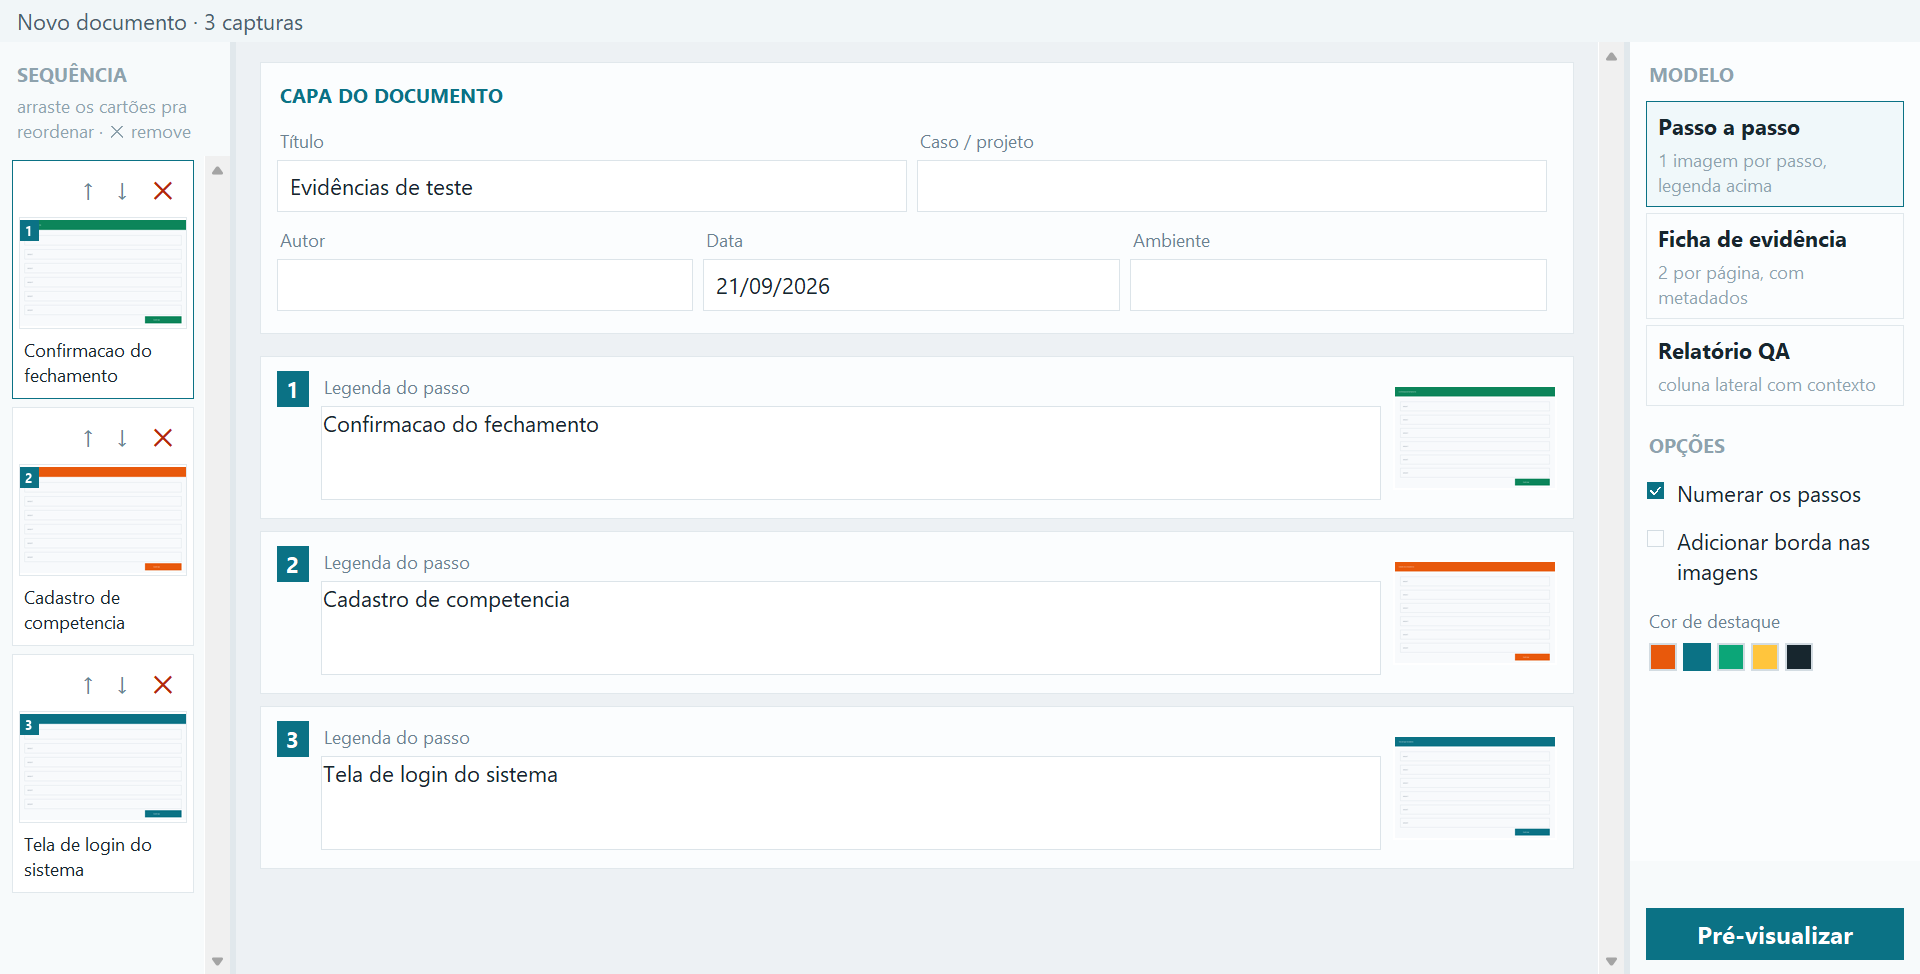
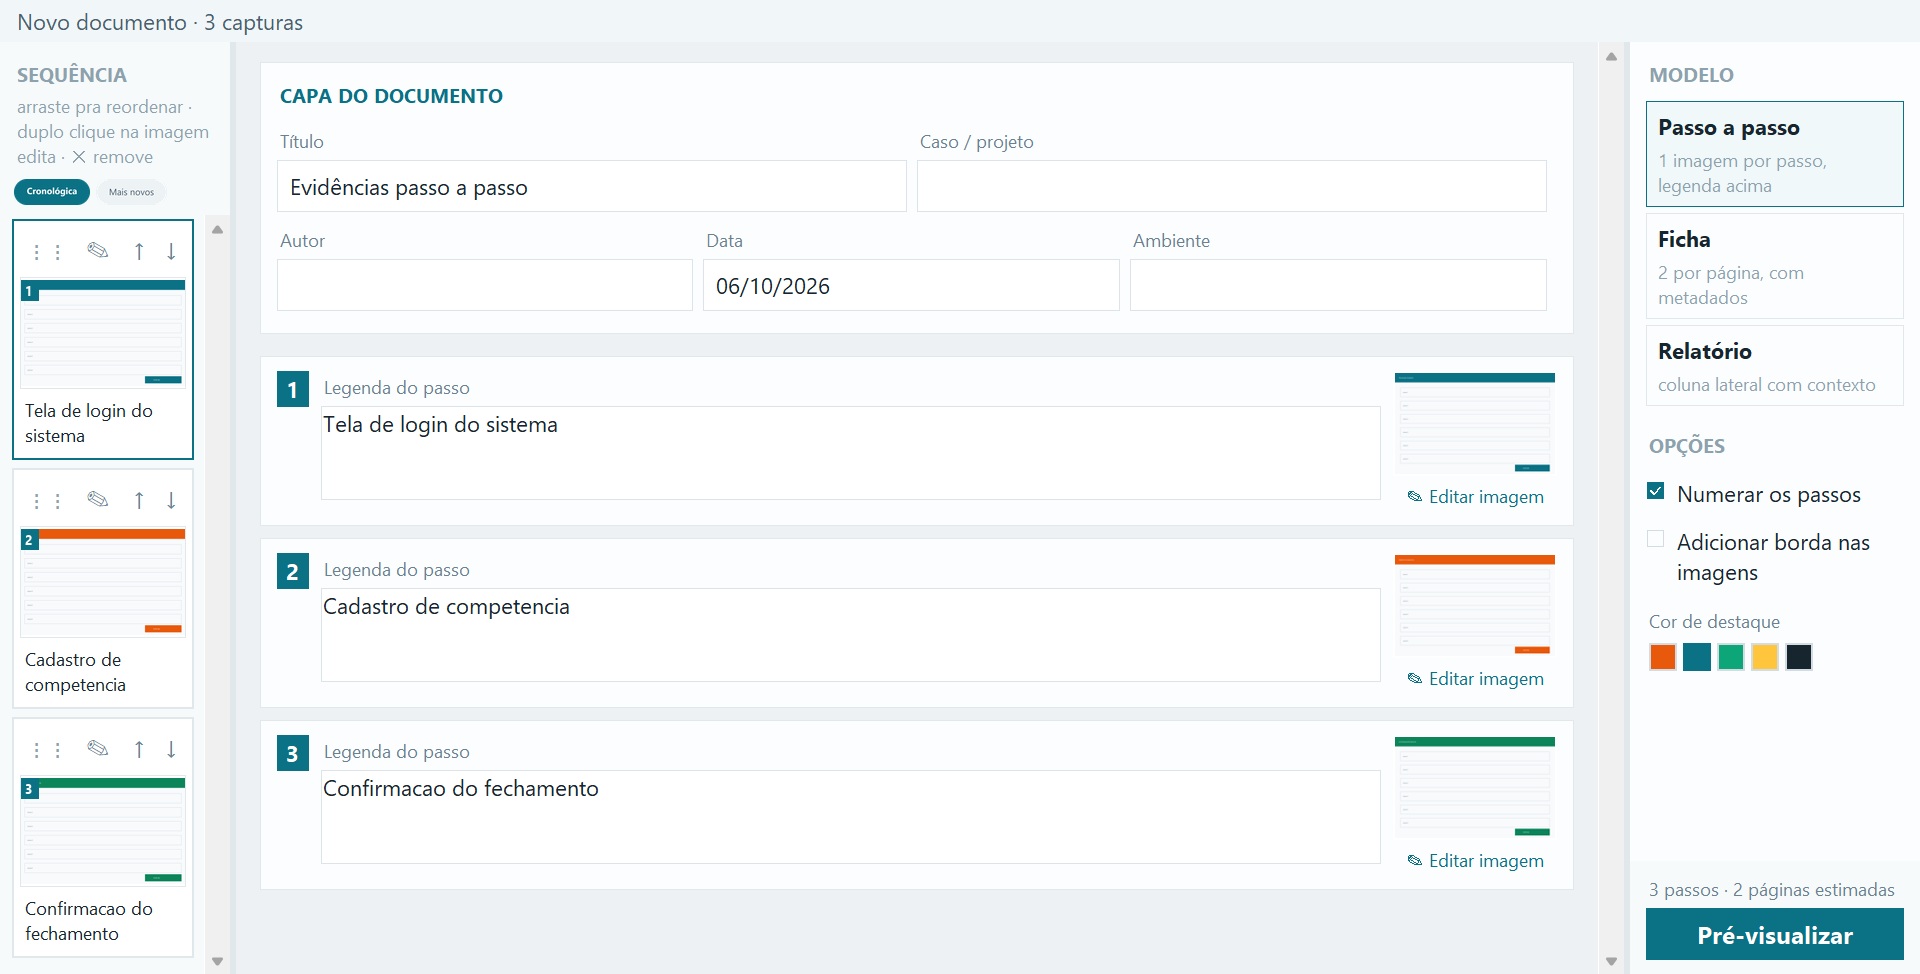
docs: README e tests/README acompanham o que o projeto ja e
- README: remove "ainda nao esta sob Git" e "reorganizacao em pacotes" da lista
  do que nao existe (os dois ja foram feitos), atualiza o roadmap, a secao de
  contribuicao (GitHub, pyflakes em todas as pastas, conferencia com mouse real)
  e a imagem da tela de montar documento, que era de antes da alca, do botao de
  editar, do seletor de ordem e dos nomes novos dos modelos
- tests/README: 39 casos (dizia 29), tres regras novas (evento sintetico precisa
  de horario, conferir a ordem exibida, validar o teste fazendo-o falhar), a
  tabela de defeitos pegos e a nota sobre o mouse de verdade

diff --git a/tests/README.md b/tests/README.md
@@ -41,11 +41,11 @@ As suítes:
   de área e atalho com o painel escondido.
 - **sistema** — Lixeira, menu Iniciar, pasta de dados em `%APPDATA%`.
 
-São 29 casos ao todo.
+São 39 casos ao todo.
 
 ## Ao escrever um cenário novo
 
-Quatro regras que saíram de defeitos reais desta suíte, e não de preferência:
+Sete regras que saíram de defeitos reais desta suíte, e não de preferência:
 
 1. **Crie a própria pasta temporária de capturas.** Três cenários abriam o app
    sobre a pasta real da máquina; o do editor chegava a gravar legenda nas
@@ -64,6 +64,22 @@ Quatro regras que saíram de defeitos reais desta suíte, e não de preferência
    que a palavra-chave `Executar cenário de tela` lê — e ela também relata o
    código de saída do processo, que foi o que permitiu descobrir que os
    "resultados vazios" eram, na verdade, o processo morrendo.
+5. **Evento de mouse sintético precisa de horário.** `event_generate` sem
+   `time=` não carrega horário, e o Tk decide "duplo clique" comparando
+   horários: todo clique no mesmo ponto passava a contar como duplo, por mais que
+   o teste esperasse entre eles — um arraste logo depois de um clique abria o
+   editor. Os cenários de gesto usam um relógio virtual que avança entre os
+   gestos, e passam coordenadas de tela absolutas (`rootx`/`rooty`), porque o
+   widget que recebeu o clique pode sair do layout durante o arraste.
+6. **Confira a ordem exibida, não a de criação.** Os cartões trocam de lugar sem
+   ser recriados, então `winfo_children()` (ordem de criação) deixou de dizer o
+   que está na tela; use `pack_slaves()` ou a lista de cartões do próprio Montar.
+7. **Um teste que só passa não prova nada: faça-o falhar.** Desfaça a correção
+   que o teste diz cobrir (numa cópia do repositório) e confira que ele falha.
+   Foi assim que apareceram testes que concordavam com qualquer valor errado —
+   por exemplo, um que calculava o alvo do ponteiro com os mesmos números que o
+   código tinha calculado — e um que passava mesmo sem o campo `captured_at`
+   gravado, porque o nome e o mtime davam quase a mesma hora.
 
 ## Por que os cenários de tela rodam em processos separados
 
@@ -100,6 +116,12 @@ lista.
 | `test_legenda_ficha` | legenda sem espaços (URL, caminho) saía para fora do cartão |
 | `cenario_area_capturada` | recorte deslocado no monitor em 150% |
 | `cenario_area_trabalho` | a busca não alcançava o campo Caso/Projeto |
+| `cenario_editar_do_documento` | voltar do editor trazia o painel principal por cima; a legenda digitada no Montar se perdia ao gravar |
+| `cenario_duplo_clique_documento` | uma tremida entre os cliques virava arraste; imagem corrompida deixava uma janela vazia na tela |
+| `cenario_arraste_sequencia` / `test_reordenar` | arraste sem mostrar o destino, sem rolagem automática e com o item saindo fora do ponto indicado; soltar travava a tela por segundos |
+| `test_gravacao_atomica` | falha no meio da gravação deixava `.tmp` e o editor fechava como se tivesse gravado |
+| `cenario_timer_e_previas` | o painel se escondia com o Montar aberto; a pausa do timer não tinha efeito; duas prévias disputavam o mesmo arquivo |
+| `test_ordem_capturas` / `cenario_ordem_documento` | o último print virava o passo 1; ordenar por modificação jogaria para o fim o print editado; o texto "ordem manual" aparecia cortado |
 
 ## O que ainda depende de teste manual
 
@@ -108,3 +130,11 @@ falso negativo: o Windows só entrega `WM_HOTKEY` para entrada real de teclado,
 e isso já levou a diagnóstico errado. O cenário
 `cenario_printscreen_oculto` cobre o resto do caminho — o registro do atalho e o
 seletor aparecendo com o painel escondido, que é onde o defeito estava.
+
+Também vale uma passada com o **mouse de verdade** depois de mexer em gesto
+(arrastar, duplo clique): o evento sintético do Tk não reproduz a cadeia de
+foco e de cruzamento de janelas que o Windows gera. O duplo clique na miniatura
+passava em todos os cenários e falhava uma vez em cada duas com o mouse real,
+porque o primeiro clique movia o foco. Dá para conferir com `SetCursorPos` e
+`mouse_event` (user32), que injetam entrada real — mas o cursor da máquina se
+mexe sozinho enquanto roda, então não entra na suíte automática.

diff --git a/README.md b/README.md
@@ -64,8 +64,6 @@ de nada para fora da máquina.
 
 Integração com Jira ou Azure DevOps **está fora do escopo**: o documento
 gerado é anexado manualmente onde for preciso, e o projeto fica no GitHub.
-- [ ] Reorganização do código em pacotes por camada (ver [Roadmap](#-roadmap))
-- [ ] Versionamento em Git — **o projeto ainda não está sob controle de versão**
 
 ---
 
@@ -393,12 +391,17 @@ querer: CPF, nome, valor, e-mail, token na URL.
 - [x] Editar a imagem direto do Montar documento, sem perder o que já foi preenchido
 - [x] Tela de Configurações extraída do `workspace.py` para módulo próprio
 - [x] Projeto sob Git
+- [x] Módulos agrupados em pacotes por camada (`ui`, `captura`, `exportacao`, `dados`, `sistema`)
 - [x] Licença definida
 - [x] Busca alcançando também o campo Caso/Projeto
+- [x] Nomes e título padrão da capa por modelo (Passo a passo, Ficha, Relatório)
+- [x] Documento em ordem cronológica, com seletor de ordem e `captured_at`
+- [x] Arrastar a sequência com vão, rolagem automática e desfazer
 
 ### Próximo
 
-- [ ] Agrupar os módulos em pastas por camada
+- [ ] Duplo clique na página da pré-visualização para editar a imagem (hoje o
+      duplo clique vale na tela de montar o documento)
 
 ### Mais adiante
 
@@ -409,8 +412,8 @@ querer: CPF, nome, valor, e-mail, token na URL.
 
 ## 🤝 Contribuindo
 
-O projeto ainda não está sob controle de versão — este é o primeiro item do
-roadmap. Assim que estiver, a intenção é:
+O código fica no GitHub (`dassayani/gestordeevidencias`). Cada mudança nasce
+numa branch própria:
 
 ```bat
 git checkout -b feature/nome-curto
@@ -421,13 +424,18 @@ Prefixos: `feature/`, `fix/`, `refactor/`, `test/`, `docs/`.
 Antes de qualquer entrega, duas coisas:
 
 ```bat
-venv\Scripts\python.exe -m pyflakes *.py    :: precisa sair limpo
-tests\executar.bat                           :: precisa fechar 39/39
+venv\Scripts\python.exe -m pyflakes gestor main.py tests\python tests\biblioteca   :: precisa sair limpo
+tests\executar.bat                                                                 :: precisa fechar 39/39
 ```
 
 E, para mudança de interface: **rode o app e olhe a tela**. Vários defeitos
 desta base só aparecem visualmente — lista que esvazia, miniatura que some,
-campo que volta ao padrão.
+campo que volta ao padrão, texto cortado.
+
+Teste de gesto (arrastar, duplo clique) merece uma conferência com o **mouse de
+verdade**: o evento sintético do Tk não reproduz tudo, e foi assim que se achou
+um duplo clique que falhava de forma intermitente. Detalhes em
+[tests/README.md](tests/README.md).
 
 ### Convenções de commit
 
